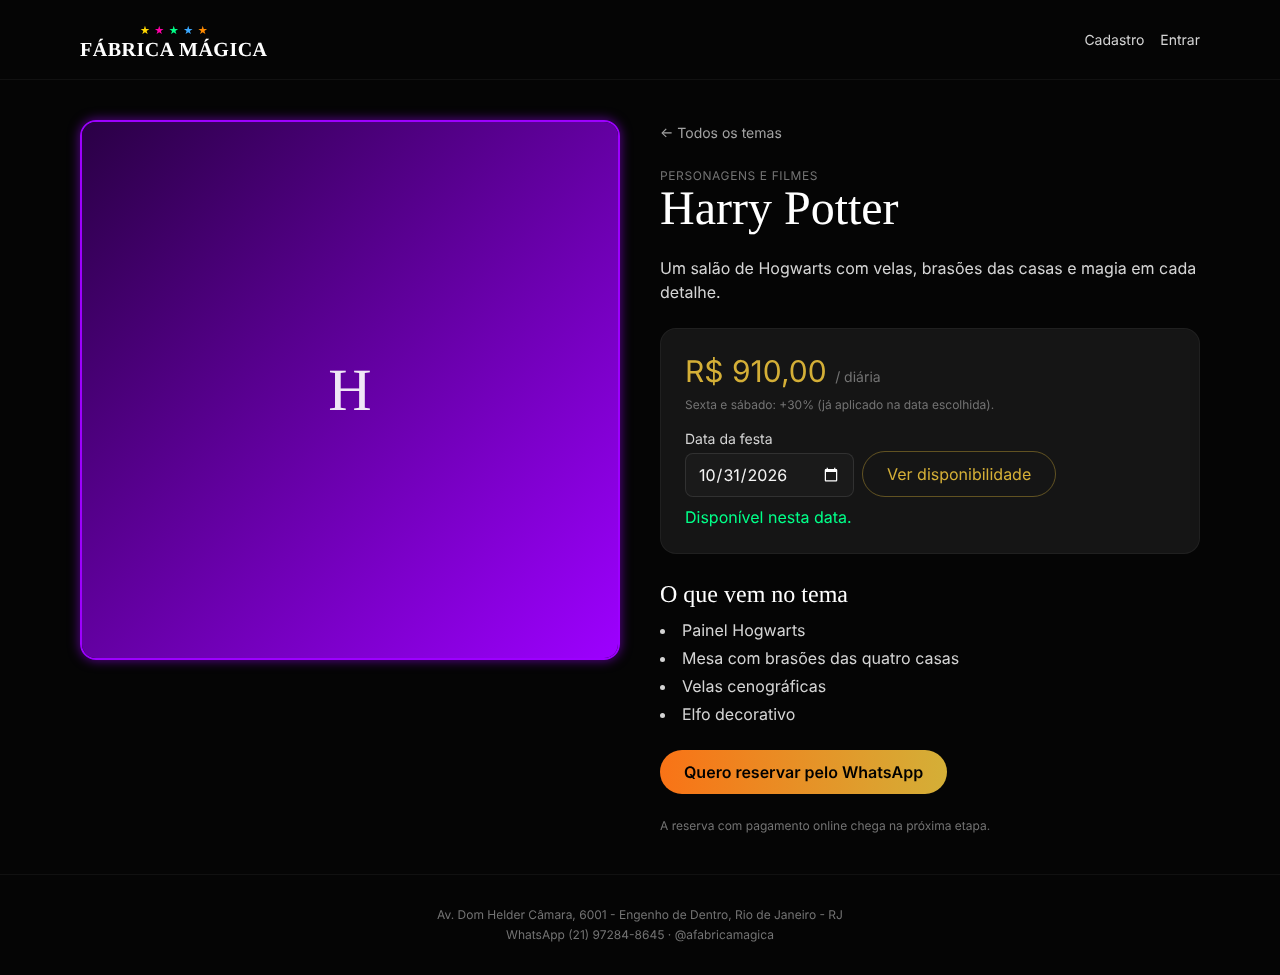
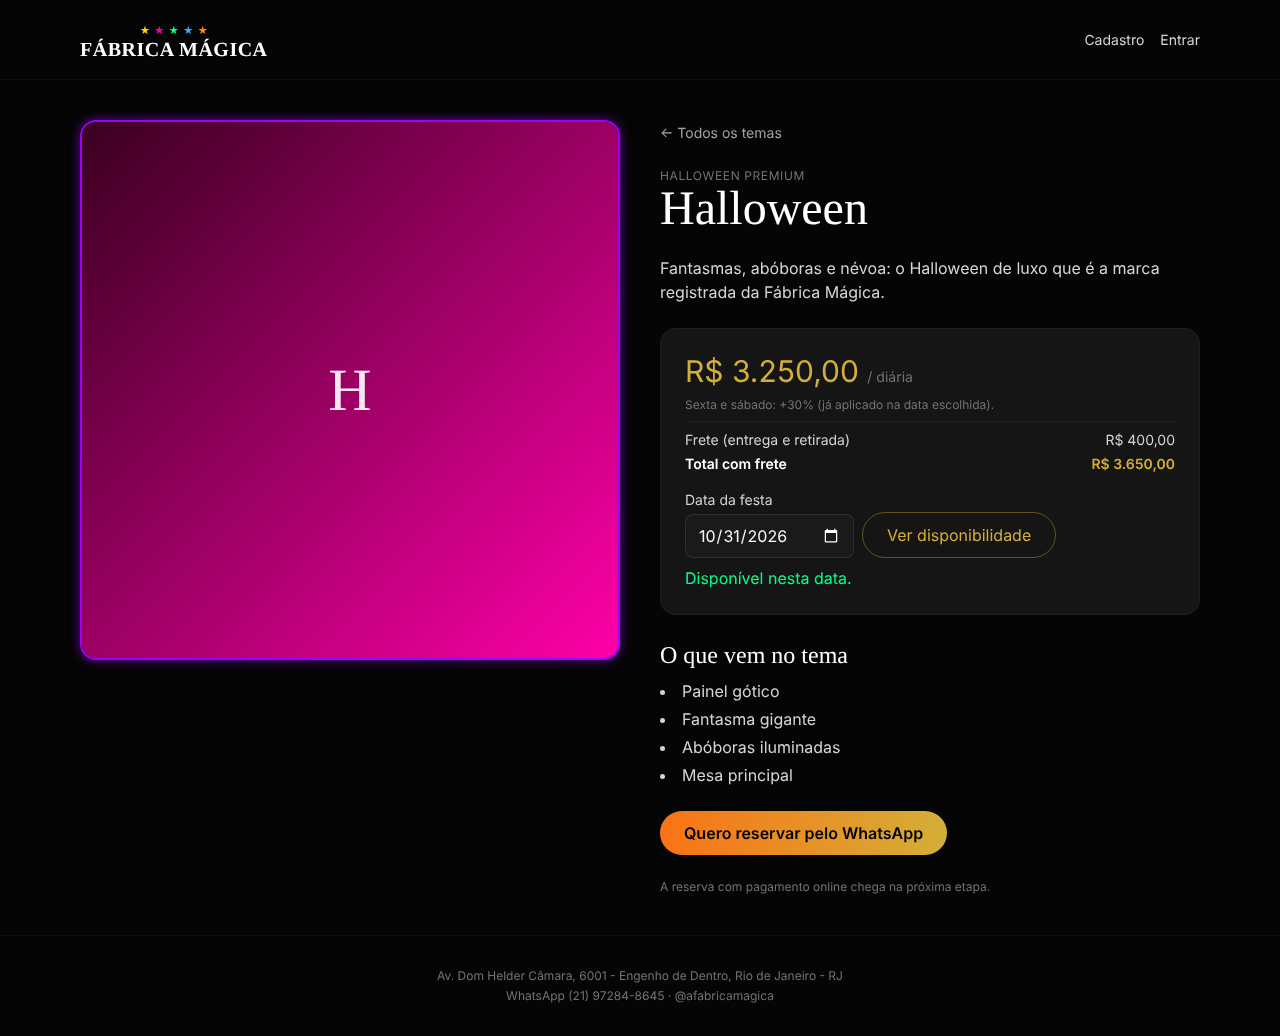
feat: preços simbólicos dos temas e frete de R$ 400 configurável
- Seed: temas entre R$ 1.200 e R$ 2.500 e frete padrão de R$ 400
- deliveryFeeBase editável pelo dono em Privacidade/Configurações e exposto no site público
- Página do tema mostra frete separado e total com frete; catálogo informa o frete

Claude-Session: https://claude.ai/code/session_01Bu9yKCrGvG8s9iua1EVr77

diff --git a/packages/db/prisma/seed.ts b/packages/db/prisma/seed.ts
@@ -27,7 +27,8 @@ const branding = {
 /**
  * Temas iniciais pedidos pelo Thiago (destaques do Instagram).
  * O catálogo não tem limite: novos temas são cadastrados pelo dono em /admin/temas.
- * PREÇOS E ITENS SÃO EXEMPLOS: ajustar no painel antes de abrir as reservas.
+ * Preços simbólicos definidos pelo Thiago (faixa R$ 1.200 a R$ 2.500); itens são exemplos.
+ * Ajustar no painel antes de abrir as reservas.
  */
 const themes = [
   {
@@ -36,7 +37,7 @@ const themes = [
     category: "Personagens e Filmes",
     description: "A savana africana na sua festa: Pedra do Reino, folhagens tropicais e os personagens que todo mundo ama.",
     includedItems: ["Painel Pedra do Reino", "Mesa principal", "Folhagens tropicais", "Bonecos decorativos"],
-    dailyPrice: 60000,
+    dailyPrice: 150000,
     totalQty: 1,
     isBestseller: true,
   },
@@ -46,7 +47,7 @@ const themes = [
     category: "Personagens e Filmes",
     description: "Um salão de Hogwarts com velas, brasões das casas e magia em cada detalhe.",
     includedItems: ["Painel Hogwarts", "Mesa com brasões das quatro casas", "Velas cenográficas", "Elfo decorativo"],
-    dailyPrice: 70000,
+    dailyPrice: 220000,
     totalQty: 1,
   },
   {
@@ -55,7 +56,7 @@ const themes = [
     category: "Personagens e Filmes",
     description: "O clássico Mickey feiticeiro com chapéu de estrelas, cores vibrantes e muita alegria.",
     includedItems: ["Painel Mickey", "Mesa principal", "Arco de balões vermelho, preto e amarelo", "Boneco decorativo"],
-    dailyPrice: 55000,
+    dailyPrice: 120000,
     totalQty: 1,
   },
   {
@@ -64,7 +65,7 @@ const themes = [
     category: "Personagens e Filmes",
     description: "Castelo, fogos e personagens Disney para uma festa encantada do começo ao fim.",
     includedItems: ["Painel castelo", "Mesa principal", "Iluminação colorida", "Personagens decorativos"],
-    dailyPrice: 65000,
+    dailyPrice: 180000,
     totalQty: 1,
     isNew: true,
   },
@@ -74,7 +75,7 @@ const themes = [
     category: "Halloween Premium",
     description: "Fantasmas, abóboras e névoa: o Halloween de luxo que é a marca registrada da Fábrica Mágica.",
     includedItems: ["Painel gótico", "Fantasma gigante", "Abóboras iluminadas", "Mesa principal"],
-    dailyPrice: 85000,
+    dailyPrice: 250000,
     totalQty: 1,
     isBestseller: true,
   },
@@ -84,7 +85,7 @@ const themes = [
     category: "Personagens e Filmes",
     description: "O castelo encantado da Fera com rosa sob a redoma, candelabros e detalhes em azul e dourado.",
     includedItems: ["Painel salão de baile", "Mesa imperial", "Rosa encantada com redoma", "Candelabros"],
-    dailyPrice: 70000,
+    dailyPrice: 200000,
     totalQty: 1,
   },
 ];
@@ -106,7 +107,8 @@ async function main() {
   await prisma.tenantSettings.upsert({
     where: { tenantId: tenant.id },
     update: {},
-    create: { tenantId: tenant.id }, // hostSensitiveDocs = false por padrão (modo econômico LGPD)
+    // hostSensitiveDocs = false por padrão (modo econômico LGPD); frete de R$ 400 cobrado do contratante.
+    create: { tenantId: tenant.id, deliveryFeeBase: 40000 },
   });
 
   for (const t of themes) {

diff --git a/apps/web/src/app/temas/[slug]/page.tsx b/apps/web/src/app/temas/[slug]/page.tsx
@@ -23,6 +23,7 @@ export default async function ThemePage({ params, searchParams }: { params: { sl
   const multiplier = theme.weekendMultiplier ?? tenant.settings.weekendMultiplier;
   const weekend = date ? isWeekendRate(date) : false;
   const price = weekend ? Math.round(theme.dailyPrice * multiplier) : theme.dailyPrice;
+  const deliveryFee = tenant.settings.deliveryFeeBase;
   const msg = `Olá! Quero reservar o tema ${theme.name}${date ? ` para ${date.split("-").reverse().join("/")}` : ""}.`;
 
   return (
@@ -56,6 +57,18 @@ export default async function ThemePage({ params, searchParams }: { params: { sl
           <p className="text-xs text-neutral-500">
             Sexta e sábado: +{Math.round((multiplier - 1) * 100)}%{weekend ? " (já aplicado na data escolhida)" : ""}.
           </p>
+          {deliveryFee > 0 && (
+            <div className="space-y-1 border-t border-white/5 pt-2 text-sm">
+              <p className="flex justify-between text-neutral-300">
+                <span>Frete (entrega e retirada)</span>
+                <span>{formatBRL(deliveryFee)}</span>
+              </p>
+              <p className="flex justify-between font-semibold text-white">
+                <span>Total com frete</span>
+                <span className="text-gold">{formatBRL(price + deliveryFee)}</span>
+              </p>
+            </div>
+          )}
           <form className="flex items-end gap-2 pt-2">
             <div>
               <label className="label" htmlFor="data">Data da festa</label>

diff --git a/apps/web/src/app/admin/configuracoes/page.tsx b/apps/web/src/app/admin/configuracoes/page.tsx
@@ -2,6 +2,7 @@
 
 import { useEffect, useState } from "react";
 import { RETENTION_OPTIONS } from "@fabrica/shared";
+import { centsToReais, reaisToCents } from "@/lib/money";
 import { api, ApiError } from "@/lib/api";
 
 interface Settings {
@@ -11,6 +12,7 @@ interface Settings {
   requireSelfie: boolean;
   blockWithoutDocs: boolean;
   weekendMultiplier: number;
+  deliveryFeeBase: number;
 }
 
 interface Log {
@@ -94,6 +96,23 @@ export default function ConfiguracoesPage() {
             Modo econômico: sem armazenamento sensível, validação via WhatsApp. Menor responsabilidade LGPD.
           </p>
         )}
+      </section>
+
+      <section className="card space-y-3">
+        <h2 className="font-serif text-2xl text-white">Frete</h2>
+        <label className="label" htmlFor="frete">Valor cobrado do contratante para entregar e buscar o tema (R$)</label>
+        <input
+          id="frete"
+          className="field max-w-[10rem]"
+          inputMode="decimal"
+          key={settings.deliveryFeeBase}
+          defaultValue={centsToReais(settings.deliveryFeeBase)}
+          disabled={!canEdit}
+          onBlur={(e) => {
+            const v = reaisToCents(e.target.value);
+            if (Number.isFinite(v) && v >= 0) setSettings({ ...settings, deliveryFeeBase: v });
+          }}
+        />
       </section>
 
       <section className="card space-y-3">

diff --git a/apps/web/src/server/services/settings.service.ts b/apps/web/src/server/services/settings.service.ts
@@ -9,6 +9,7 @@ const SETTINGS_FIELDS = {
   requireSelfie: true,
   blockWithoutDocs: true,
   weekendMultiplier: true,
+  deliveryFeeBase: true,
   updatedAt: true,
 } as const;
 
@@ -21,7 +22,7 @@ export async function getPublicSettings(tenantId: string) {
   const [settings, tenant] = await Promise.all([
     prisma.tenantSettings.findUniqueOrThrow({
       where: { tenantId },
-      select: { hostSensitiveDocs: true, requireProof: true, requireSelfie: true },
+      select: { hostSensitiveDocs: true, requireProof: true, requireSelfie: true, deliveryFeeBase: true },
     }),
     prisma.tenant.findUniqueOrThrow({ where: { id: tenantId }, select: { name: true, whatsapp: true } }),
   ]);
@@ -30,6 +31,7 @@ export async function getPublicSettings(tenantId: string) {
     whatsapp: tenant.whatsapp,
     whatsappLink: whatsappLink(undefined, tenant.whatsapp),
     slogan: FABRICA_MAGICA.slogan,
+    deliveryFee: settings.deliveryFeeBase,
     documents: settings.hostSensitiveDocs
       ? { mode: "UPLOAD" as const, requireProof: settings.requireProof, requireSelfie: settings.requireSelfie }
       : { mode: "WHATSAPP" as const },

diff --git a/apps/web/test/settings.test.ts b/apps/web/test/settings.test.ts
@@ -62,6 +62,15 @@ describe("RF12 - Configurações de privacidade", () => {
     expect((await auditLogs(req("/api/admin/audit-logs", { cookies: { fm_access: atendente } }), ctx)).status).toBe(403);
   });
 
+  it("frete: o dono define e o site público recebe o valor", async () => {
+    const admin = await session(ADMIN);
+    const ok = await patchSettings(req("/api/tenant/settings", { method: "PATCH", body: { deliveryFeeBase: 40000 }, cookies: { fm_access: admin } }), ctx);
+    expect((await ok.json()).settings.deliveryFeeBase).toBe(40000);
+    expect((await (await publicSettings(req("/api/tenant/public-settings"), ctx)).json()).deliveryFee).toBe(40000);
+    const bad = await patchSettings(req("/api/tenant/settings", { method: "PATCH", body: { deliveryFeeBase: 400.5 }, cookies: { fm_access: admin } }), ctx);
+    expect(bad.status).toBe(400);
+  });
+
   it("valida retenção (30/90/365) e multiplicador", async () => {
     const admin = await session(ADMIN);
     const bad = await patchSettings(req("/api/tenant/settings", { method: "PATCH", body: { retentionDays: 45 }, cookies: { fm_access: admin } }), ctx);

diff --git a/apps/web/src/app/page.tsx b/apps/web/src/app/page.tsx
@@ -44,7 +44,10 @@ export default async function Home({ searchParams }: { searchParams: { categoria
         <div className="flex flex-wrap items-end justify-between gap-4">
           <div>
             <h2 className="font-serif text-3xl text-white">Temas</h2>
-            <p className="text-sm text-neutral-400">Escolha a data da festa para ver o que está livre.</p>
+            <p className="text-sm text-neutral-400">
+              Escolha a data da festa para ver o que está livre.
+              {tenant.settings.deliveryFeeBase > 0 && ` Frete de ${formatBRL(tenant.settings.deliveryFeeBase)} para entrega e retirada.`}
+            </p>
           </div>
           <form className="flex flex-wrap items-end gap-2" action="/#temas">
             {searchParams.categoria && <input type="hidden" name="categoria" value={searchParams.categoria} />}

diff --git a/packages/shared/src/schemas.ts b/packages/shared/src/schemas.ts
@@ -89,6 +89,8 @@ export const TenantSettingsSchema = z.object({
   requireSelfie: z.boolean(),
   blockWithoutDocs: z.boolean(),
   weekendMultiplier: z.number().min(1).max(3),
+  /** Frete cobrado do contratante quando a equipe entrega e busca o tema (centavos). */
+  deliveryFeeBase: cents.max(1_000_000),
 });
 export const TenantSettingsPatchSchema = TenantSettingsSchema.partial();
 
